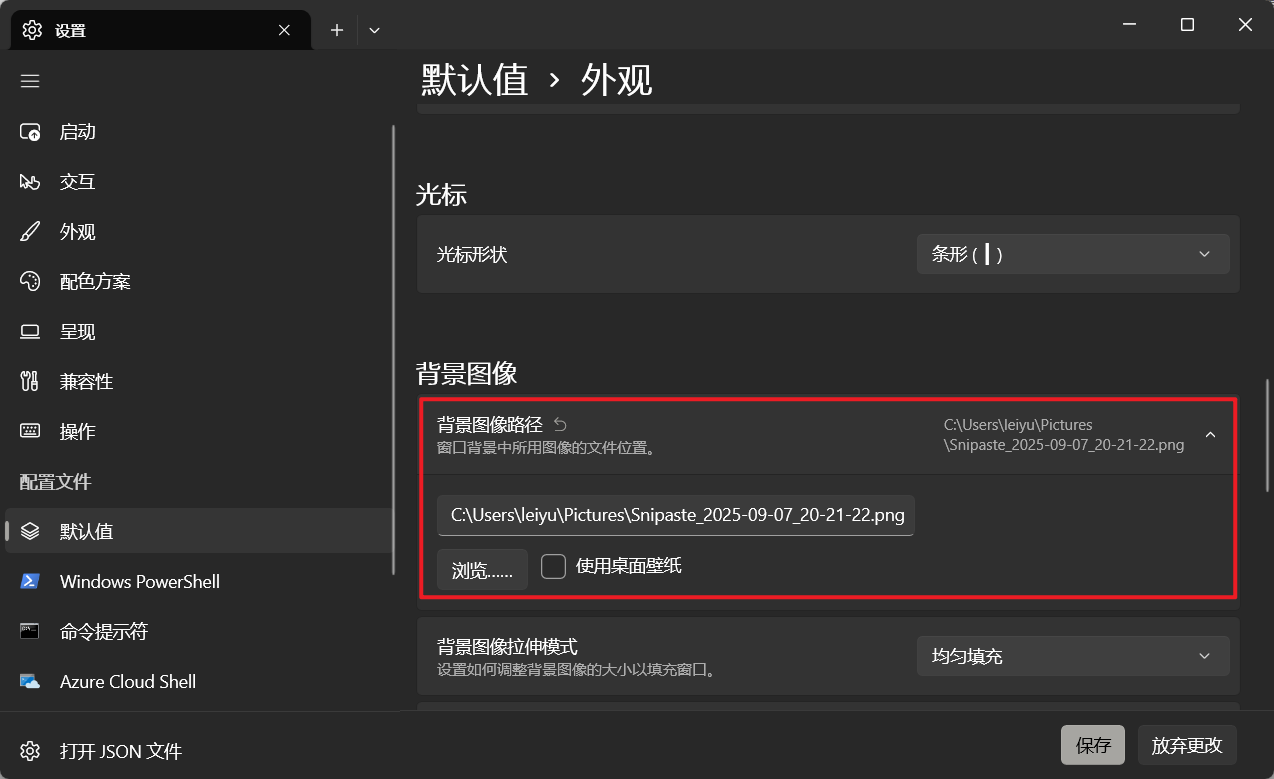
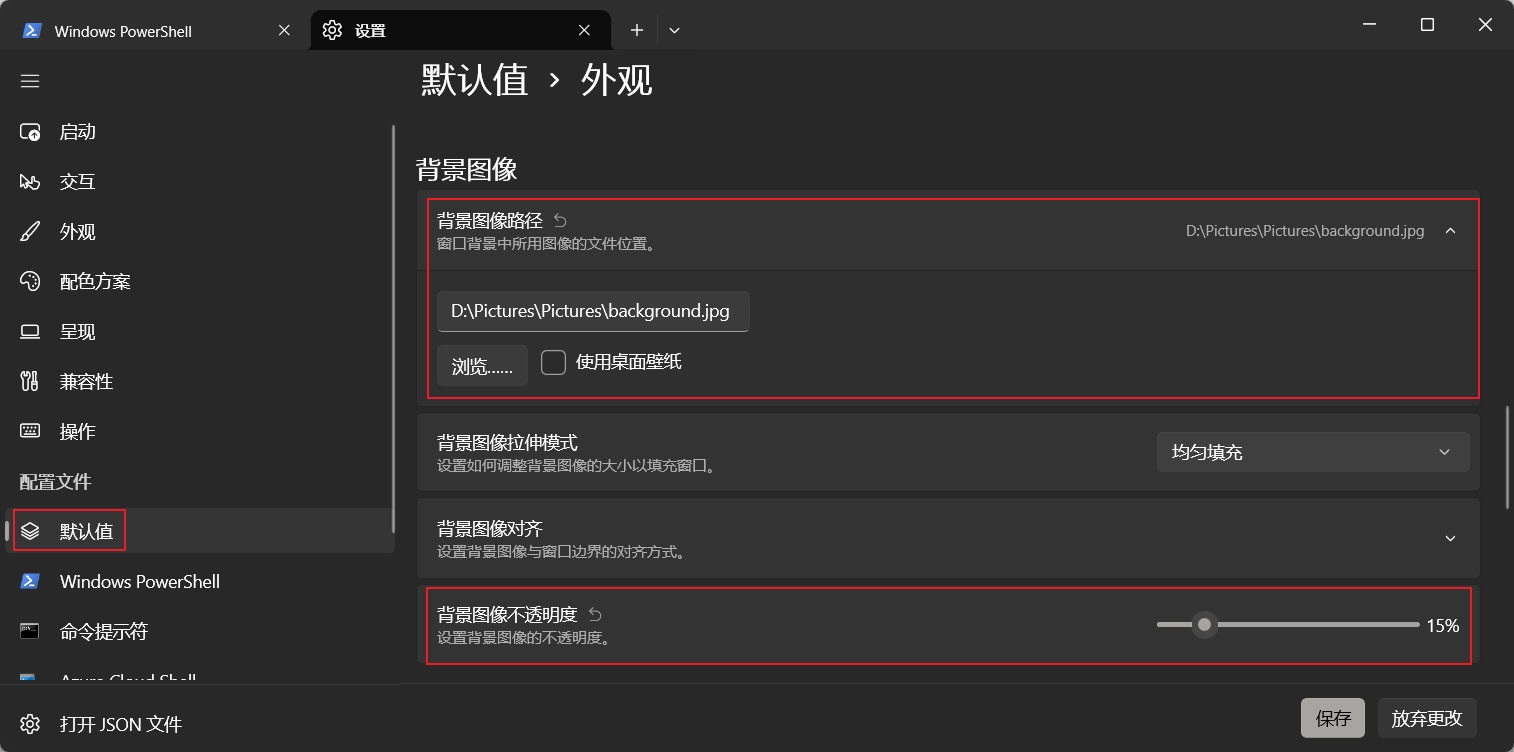
a

diff --git a/工具/Windows Terminal.md b/工具/Windows Terminal.md
@@ -1,9 +1,8 @@
 - [下载安装](#下载安装)
 - [打开设置](#打开设置)
-- [设置背景图片](#设置背景图片)
-- [修改透明度和半透明纹理](#修改透明度和半透明纹理)
-- [设置专注模式快捷键（即隐藏标题栏）](#设置专注模式快捷键（即隐藏标题栏）)
+- [设置背景图片和不透明度](#设置背景图片和不透明度)
 - [设置启动时窗口大小](#设置启动时窗口大小)
+- [隐藏滚动条](#隐藏滚动条)
 - [快捷键](#快捷键)
 - [oh-my-posh美化](#oh-my-posh美化)
 ## 下载安装
@@ -14,55 +13,39 @@
 
 打开Windows Terminal之后按Ctrl + ,或点击下图的图标打开设置。
 ![](/images/window_02.png)
-## 设置背景图片
+## 设置背景图片和不透明度
 ![](/images/window_03.png)
 
 ![](/images/window_09.png)
-## 修改透明度和半透明纹理
-![](/images/window_03.png)
-![](/images/window_04.png)
-效果：
-![](/images/window_05.png)
-
-
-
-## 设置专注模式快捷键（即隐藏标题栏）
-![](/images/window_06.png)
-![](/images/window_07.png)
-
-
 
 ## 设置启动时窗口大小
 ![](/images/window_08.png)
 
+## 隐藏滚动条
+![](/images/window_10.png)
+
 ## 快捷键
 ```sh
-win + `                                            显示/隐藏Quark窗口
-ctrl + 滚轮                                         缩放字体
 F11                                                全屏
+ctrl + 滚轮                                         缩放字体
+win + `                                            显示/隐藏Quark窗口
 ```
 ## oh-my-posh美化
-打开Windows Terminal后按win + x选择“终端管理员”。输入下列命令。
+打开Windows Terminal后按win + x选择“终端管理员”。输入下列命令
 ```sh
 Set-ExecutionPolicy -Scope CurrentUser -ExecutionPolicy RemoteSigned -Force
 ```
-作用：允许运行本地脚本。
+作用：允许运行本地脚本
 
 通过下列命令验证是否生效。
 ```sh
 Get-ExecutionPolicy -List
 ```
-输出中CurrentUser应为RemoteSigned。
+输出中CurrentUser应为RemoteSigned
 
-
-
-
-安装oh-my-posh
-```sh
-winget install JanDeDobbeleer.OhMyPosh --source winget --scope user --force
-```
-
-之后输入下列命令（默认使用的shell是powershell，如果是其他shell则要输入其他命令）
+从microsoft store下载oh-my-posh
+![](/images/window_01.png)
+打开powershell后输入下列命令
 ```sh
 New-Item -Path $PROFILE -Type File -Force
 notepad $PROFILE

diff --git a/Web开发/Nodejs.md b/Web开发/Nodejs.md
@@ -6,6 +6,7 @@
 - [zod依赖](#zod依赖)
 - [swr依赖](#swr依赖)
 - [next-mdx-remote依赖](#next-mdx-remote依赖)
+- [better-sqlite3](#better-sqlite3)
 
 Node.js 是一个开源且跨平台的 JavaScript 运行时环境。Node.js 在浏览器之外运行 V8 JavaScript 引擎（Google Chrome 的核心）。这使得 Node.js 性能非常出色。
 运行javascript文件，只需在 shell 中输入 node xxx.js
@@ -16,6 +17,10 @@ node server.js
 ```js
 // require()函数在node中用于导入模块，或导入json文件内容。一般只在node中使用，因为浏览器和主流标准使用import/export语法
 const path = require('path')
+```
+## 查看版本
+```sh
+node -v
 ```
 ## fs模块
 ```js
@@ -285,7 +290,7 @@ function Profile() {
   return <div>hello {data.name}!</div>
 }
 ```
-## next-mdx-remote
+## next-mdx-remote依赖
 ```typescript
 // 将下面内容复制到next.config.js中
 const nextConfig = {
@@ -313,4 +318,43 @@ export async function getStaticProps() {
   const mdxSource = await serialize(source)
   return { props: { source: mdxSource } }
 }
+```
+## better-sqlite3
+```ts
+import Database from 'better-sqlite3';
+// 连接数据库，若不存在，则创建数据库
+// 传递 ":memory:" 作为第一个参数来创建 in-memory 数据库
+// 可以通过传递空字符串（或省略所有参数）来创建临时数据库
+const db = new Database('a.db');
+
+
+// 创建表
+db.exec(
+  "CREATE TABLE IF NOT EXISTS users (id INTEGER PRIMARY KEY, name TEXT NOT NULL, age INTEGER)",
+);
+
+
+// 使用 db.prepare()创建语句对象，然后通过 run(), get(), all()等方法执行
+const insertStmt = db.prepare('INSERT INTO users (username, email) VALUES (?, ?)');
+const result = insertStmt.run('zhangsan', 'abc@qq.com');
+// get(): 获取查询结果的第一行
+const selectUser = db.prepare('SELECT * FROM users WHERE id = ?');
+const user = selectUser.get(1);
+// all(): 获取所有结果行
+const selectAll = db.prepare('SELECT * FROM users');
+const allUsers = selectAll.all();
+
+
+// 更新数据
+const updateStmt = db.prepare('UPDATE users SET email = ? WHERE id = ?');
+updateStmt.run('new_email@qq.com', 1);
+// 删除数据
+const deleteStmt = db.prepare('DELETE FROM users WHERE id = ?');
+deleteStmt.run(1);
+
+
+// 关闭连接
+db.close();
+
+// db.transaction()方法创建一个事务函数
 ```

diff --git a/vim相关/Neovim配置.md b/vim相关/Neovim配置.md
@@ -1,5 +1,5 @@
 - [配置文件](#配置文件)
-- [安装Neovim](#安装Neovim)
+- [配置文件相关命令](#配置文件相关命令)
 - [安装插件管理器](#安装插件管理器)
 - [自动补全插件](#自动补全插件)
 - [LSP服务器端配置](#LSP服务器端配置)
@@ -30,6 +30,7 @@
 	- [none-ls](#none-ls)
 	- [lspsaga.nvim](#lspsaga.nvim)
 	- [toggleterm.nvim](#toggleterm.nvim)
+	- [auto-save.nvim](#auto-save.nvim)
 配置完成之后每增加一门语言的支持就要进行下面三项。
 一个是 LSP 服务器，提供代码提示等功能。通过 Mason 插件安装。命令为 :Mason。
 一个是语法解析器，提供语法高亮等功能。通过修改 nvim-treesitter 配置文件安装。
@@ -55,11 +56,7 @@ nvim
 			- nvim_tree.lua
 			- ...
 ```
-## 安装Neovim
-```sh
-Window上：
-winget install Neovim.Neovim
-```
+## 配置文件相关命令
 在安装完成之后，可以在终端使用 nvim 命令进入 nvim，然后输入下面命令创建 init.lua
 ```sh
 :exe 'edit' stdpath('config') .. '/init.lua'
@@ -247,6 +244,9 @@ JetBrainsMonoNerdFontMono-Medium.ttf
 JetBrainsMonoNerdFontMono-MediumItalic.ttf
 JetBrainsMonoNerdFontMono-Bold.ttf
 JetBrainsMonoNerdFontMono-BoldItalic.ttf
+
+安装完之后需要在 Windows Terminal 的设置中更换字体
+![](/images/neovim_02.png)
 ## 语法高亮
 首先需要安装 [nvim-treesitter](https://github.com/nvim-treesitter/nvim-treesitter)，主要功能是进行语法分析，生成语法树。之后便可以通过其他插件进行语法高亮。
 新增 plugins/treesitter.lua 文件
@@ -689,5 +689,17 @@ return {
 			--},
 		})
 	end,
+}
+```
+## auto-save.nvim
+```lua
+return {
+  "okuuva/auto-save.nvim",
+  version = '^1.0.0',
+  cmd = "ASToggle",
+  event = { "InsertLeave", "TextChanged" },
+  opts = {
+    debounce_delay = 500,
+  },
 }
 ```

diff --git a/Web开发/Bun.md b/Web开发/Bun.md
@@ -1,3 +1,8 @@
+- [安装](#安装)
+- [运行单个文件](#运行单个文件)
+- [新建项目](#新建项目)
+- [安装和删除依赖](#安装和删除依赖)
+
 Bun 旨在替代 Node.js。
 可以直接执行 .jsx、.ts 和 .tsx 文件。
 Bun 不仅仅是一个运行时。它的长期目标是成为一个用于构建 JavaScript/TypeScript 应用程序的紧密结合的基础架构工具包，包括包管理器、转译器、打包器、脚本运行器、测试运行器等。
@@ -8,7 +13,6 @@ powershell -c "irm bun.sh/install.ps1|iex"
 ```
 ## 运行单个文件
 ```sh
-bun run index.ts
 bun index.ts
 ```
 ## 新建项目

diff --git a/数据库/SQLite.md b/数据库/SQLite.md
@@ -3,6 +3,14 @@
 - [命令行使用](#命令行使用)
 - [数据类型](#数据类型)
 
+```sh
+每个值都属于下面5个存储类（storage class）中的一种：
+NULL 值为空值
+INTEGER 有符号整数，根据值的大小存储在0、1、2、3、4、6或8个字节中
+REAL 浮点数，存储为8字节IEEE浮点数
+TEXT 字符串，使用数据库编码（UTF-8、UTF-16BE或UTF-16LE）存储
+BLOB a blob of data，存储的内容与输入的完全一致
+```
 ## 简介
 ```sh
 SQLite是一个C语言库

diff --git a/Web开发/npm.md b/Web开发/npm.md
@@ -49,8 +49,12 @@ package-lock.json 是 npm 自动生成和维护的文件（不需要开发者编
 如果没有 lock 文件，则根据 package.json 的依赖规则来安装，并生成新的 package-lock.json。
 ## npm的常用命令
 ```shell
+# 创建 nextjs 项目
+npx create-next-app@latest
 # 查看版本
 npm -v
+# 更新版本
+npm install -g npm@latest
 # 初始化项目，生成一个 package.json 文件（-y 表示用默认值）
 npm init -y
 # 安装依赖
